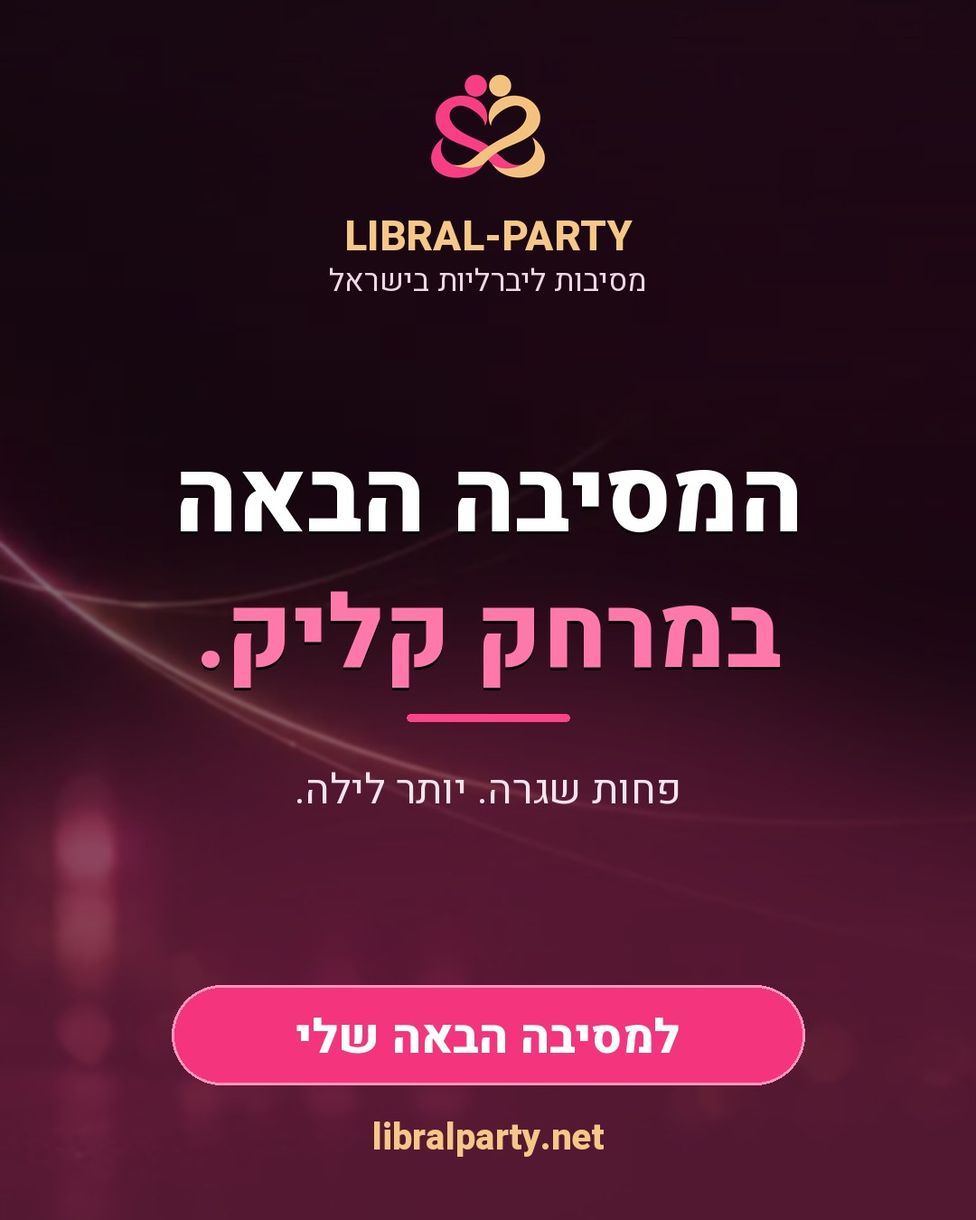
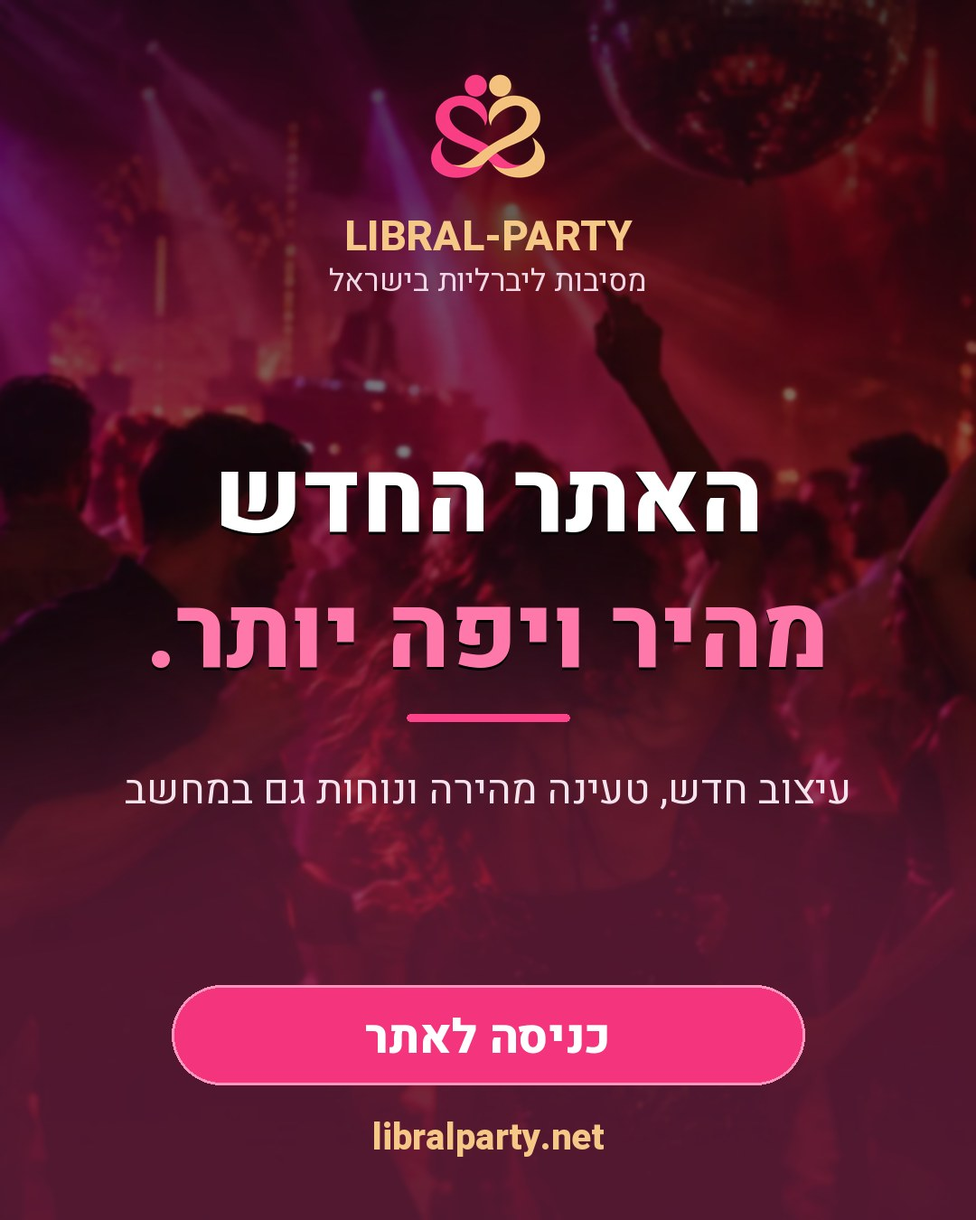
Campaigns: add 'what's new' posts first, proofread Hebrew texts (16 campaigns)
Claude-Session: https://claude.ai/code/session_01MnETpxBKVPfyu1WyzPnxXv

diff --git a/shared/telegramCampaigns.js b/shared/telegramCampaigns.js
@@ -3,61 +3,81 @@ export const TELEGRAM_CAMPAIGNS = [
   {
     "id": "c01",
     "image": "https://www.libralparty.net/assets/campaigns/c01.jpg",
-    "caption": "💃 סינגליות, האיזון שלכן מחכה!\nנרשמות למסיבה דרך האתר, ואנחנו דואגים לאיזון מגדרי. ללא עלות, ובלי להתאמץ.\n\n👇 בוחרות מסיבה ונרשמות:\nhttps://www.libralparty.net/events?utm_source=telegram&utm_medium=channel&utm_campaign=c01"
+    "caption": "📲 חדש באתר: התראות ישירות לנייד!\nמאשרים התראות פעם אחת, ומקבלים עדכון ברגע שנמצא לכם איזון ובכל פעם שעולה מסיבה חדשה.\n\n👇 נכנסים לאתר ומאשרים התראות:\nhttps://www.libralparty.net/?utm_source=telegram&utm_medium=channel&utm_campaign=c01"
   },
   {
     "id": "c02",
     "image": "https://www.libralparty.net/assets/campaigns/c02.jpg",
-    "caption": "⏰ סוף השבוע מתקרב וחבל לפספס איזון!\nאפשר להירשם לאיזון מגדרי עד 21:00 ביום המסיבה.\n\n👇 כל המסיבות באתר:\nhttps://www.libralparty.net/events?utm_source=telegram&utm_medium=channel&utm_campaign=c02"
+    "caption": "⚡ חדש באתר: הרשמה מהירה!\nמנויים שמחוברים לא צריכים להקליד שוב שם וטלפון — בוחרים מסיבה, ונרשמים.\n\n👇 לוחצים ונרשמים:\nhttps://www.libralparty.net/events?utm_source=telegram&utm_medium=channel&utm_campaign=c02"
   },
   {
     "id": "c03",
     "image": "https://www.libralparty.net/assets/campaigns/c03.jpg",
-    "caption": "🔥 מסיבות חדשות עלו עכשיו לאתר!\nכל התאריכים, המקומות וההרשמה — הכל במקום אחד.\n\n👇 מה מתאים לכם הלילה?\nhttps://www.libralparty.net/events?utm_source=telegram&utm_medium=channel&utm_campaign=c03"
+    "caption": "👤 חדש באתר: אזור אישי מלא!\nאפשר לערוך שם, להחליף סיסמה ותמונה, לראות את ההרשמות שלכם ולדעת מתי יש לכם איזון.\n\n👇 נכנסים לאזור האישי:\nhttps://www.libralparty.net/my-area?utm_source=telegram&utm_medium=channel&utm_campaign=c03"
   },
   {
     "id": "c04",
     "image": "https://www.libralparty.net/assets/campaigns/c04.jpg",
-    "caption": "💑 זוגות — הרשמה למסיבה לוקחת דקה!\nבוחרים מסיבה, ממלאים פרטים ומגיעים ליהנות.\n\n👇 מסיבות פתוחות להרשמה:\nhttps://www.libralparty.net/events?utm_source=telegram&utm_medium=channel&utm_campaign=c04"
+    "caption": "💗 חדש באתר: מועדפים!\nלוחצים על הלב ליד מסיבה, והיא נשמרת באזור האישי. מסיבות נוספות של אותו מפיק מופיעות שם גם הן.\n\n👇 בוחרים מסיבות:\nhttps://www.libralparty.net/events?utm_source=telegram&utm_medium=channel&utm_campaign=c04"
   },
   {
     "id": "c05",
     "image": "https://www.libralparty.net/assets/campaigns/c05.jpg",
-    "caption": "✨ פחות שגרה, יותר לילה!\nהמסיבה הבאה שלכם כבר מחכה באתר.\n\n👇 לוחצים ונרשמים:\nhttps://www.libralparty.net/events?utm_source=telegram&utm_medium=channel&utm_campaign=c05"
+    "caption": "✨ האתר התחדש!\nעיצוב חדש, טעינה מהירה בהרבה ותצוגה נוחה גם במחשב.\n\n👇 בואו להתרשם:\nhttps://www.libralparty.net/?utm_source=telegram&utm_medium=channel&utm_campaign=c05"
   },
   {
     "id": "c06",
     "image": "https://www.libralparty.net/assets/campaigns/c06.jpg",
-    "caption": "🤝 סינגלים — גם לכם יש איזון מגדרי!\nמצטרפים כמנויים ומקבלים התאמה למסיבה.\n\n👇 כל הפרטים והמחירים:\nhttps://www.libralparty.net/membership?utm_source=telegram&utm_medium=channel&utm_campaign=c06"
+    "caption": "💃 סינגליות, האיזון שלכן מחכה!\nנרשמות למסיבה דרך האתר, ואנחנו דואגים לאיזון מגדרי. ללא עלות ובלי להתאמץ.\n\n👇 בוחרות מסיבה ונרשמות:\nhttps://www.libralparty.net/events?utm_source=telegram&utm_medium=channel&utm_campaign=c06"
   },
   {
     "id": "c07",
     "image": "https://www.libralparty.net/assets/campaigns/c07.jpg",
-    "caption": "🩶 קהילה מכבדת, חיבורים מעניינים.\nמרחב של חופש ושל כבוד הדדי — להכיר, לרקוד ולצאת מהרגיל.\n\n👇 קצת עלינו:\nhttps://www.libralparty.net/about?utm_source=telegram&utm_medium=channel&utm_campaign=c07"
+    "caption": "⏰ סוף השבוע מתקרב, וחבל לפספס איזון!\nאפשר להירשם לאיזון מגדרי עד 21:00 ביום המסיבה.\n\n👇 כל המסיבות באתר:\nhttps://www.libralparty.net/events?utm_source=telegram&utm_medium=channel&utm_campaign=c07"
   },
   {
     "id": "c08",
     "image": "https://www.libralparty.net/assets/campaigns/c08.jpg",
-    "caption": "📅 כל המסיבות בלוח אחד!\nמפנים מקום ביומן ובוחרים את הלילה הבא.\n\n👇 ללוח האירועים:\nhttps://www.libralparty.net/calendar?utm_source=telegram&utm_medium=channel&utm_campaign=c08"
+    "caption": "🔥 מסיבות חדשות עלו עכשיו לאתר!\nכל התאריכים, המקומות וההרשמה, הכל במקום אחד.\n\n👇 מה מתאים לכם הלילה?\nhttps://www.libralparty.net/events?utm_source=telegram&utm_medium=channel&utm_campaign=c08"
   },
   {
     "id": "c09",
     "image": "https://www.libralparty.net/assets/campaigns/c09.jpg",
-    "caption": "📣 מפיקים — מעוניינים לפרסם את המסיבה שלכם?\nנרשמים כמפרסמים, מעלים את המסיבה, והיא מופיעה באתר ובערוצים שלנו.\n\n👇 להרשמה כמפרסם:\nhttps://www.libralparty.net/advertiser-register?utm_source=telegram&utm_medium=channel&utm_campaign=c09"
+    "caption": "💑 זוגות, ההרשמה למסיבה לוקחת דקה!\nבוחרים מסיבה, ממלאים פרטים ומגיעים ליהנות.\n\n👇 מסיבות פתוחות להרשמה:\nhttps://www.libralparty.net/events?utm_source=telegram&utm_medium=channel&utm_campaign=c09"
   },
   {
     "id": "c10",
     "image": "https://www.libralparty.net/assets/campaigns/c10.jpg",
-    "caption": "👤 האזור האישי שלכם באתר:\nההרשמות, האיזון והפרטים שלכם — הכל במקום אחד.\n\n👇 נכנסים:\nhttps://www.libralparty.net/my-area?utm_source=telegram&utm_medium=channel&utm_campaign=c10"
+    "caption": "✨ פחות שגרה, יותר לילה!\nהמסיבה הבאה שלכם כבר מחכה באתר.\n\n👇 לוחצים ונרשמים:\nhttps://www.libralparty.net/events?utm_source=telegram&utm_medium=channel&utm_campaign=c10"
   },
   {
     "id": "c11",
     "image": "https://www.libralparty.net/assets/campaigns/c11.jpg",
-    "caption": "🎁 לנשים — מנוי למסיבות חינם, לכל החיים!\nנרשמות פעם אחת ונהנות מהכל.\n\n👇 להרשמה:\nhttps://www.libralparty.net/register?utm_source=telegram&utm_medium=channel&utm_campaign=c11"
+    "caption": "🤝 סינגלים, גם לכם יש איזון מגדרי!\nמצטרפים כמנויים ומקבלים התאמה למסיבה.\n\n👇 כל הפרטים והמחירים:\nhttps://www.libralparty.net/membership?utm_source=telegram&utm_medium=channel&utm_campaign=c11"
   },
   {
     "id": "c12",
     "image": "https://www.libralparty.net/assets/campaigns/c12.jpg",
-    "caption": "🌙 הלילה הבא מתחיל כאן!\nמסיבות, איזונים וקהילה — הכל באתר LIBRAL PARTY.\n\n👇 כניסה לאתר:\nhttps://www.libralparty.net/?utm_source=telegram&utm_medium=channel&utm_campaign=c12"
+    "caption": "🩶 קהילה מכבדת, חיבורים מעניינים.\nמרחב של חופש ושל כבוד הדדי, להכיר, לרקוד ולצאת מהרגיל.\n\n👇 קצת עלינו:\nhttps://www.libralparty.net/about?utm_source=telegram&utm_medium=channel&utm_campaign=c12"
+  },
+  {
+    "id": "c13",
+    "image": "https://www.libralparty.net/assets/campaigns/c13.jpg",
+    "caption": "📅 כל המסיבות בלוח אחד!\nמפנים מקום ביומן ובוחרים את הלילה הבא.\n\n👇 ללוח האירועים:\nhttps://www.libralparty.net/calendar?utm_source=telegram&utm_medium=channel&utm_campaign=c13"
+  },
+  {
+    "id": "c14",
+    "image": "https://www.libralparty.net/assets/campaigns/c14.jpg",
+    "caption": "📣 מפיקים, מעוניינים לפרסם את המסיבה שלכם?\nנרשמים כמפרסמים, מעלים את המסיבה, והיא מופיעה באתר ובערוצים שלנו.\n\n👇 להרשמה כמפרסם:\nhttps://www.libralparty.net/advertiser-register?utm_source=telegram&utm_medium=channel&utm_campaign=c14"
+  },
+  {
+    "id": "c15",
+    "image": "https://www.libralparty.net/assets/campaigns/c15.jpg",
+    "caption": "🎁 לנשים, מנוי למסיבות חינם לכל החיים!\nנרשמות פעם אחת ונהנות מהכל.\n\n👇 להרשמה:\nhttps://www.libralparty.net/register?utm_source=telegram&utm_medium=channel&utm_campaign=c15"
+  },
+  {
+    "id": "c16",
+    "image": "https://www.libralparty.net/assets/campaigns/c16.jpg",
+    "caption": "🌙 הלילה הבא מתחיל כאן!\nמסיבות, איזונים וקהילה, הכל באתר LIBRAL PARTY.\n\n👇 כניסה לאתר:\nhttps://www.libralparty.net/?utm_source=telegram&utm_medium=channel&utm_campaign=c16"
   }
 ];

diff --git a/scripts/campaigns/make_campaigns.py b/scripts/campaigns/make_campaigns.py
@@ -21,30 +21,40 @@ BG = {
 
 # id, background, headline lines (last line is highlighted), subline, button text, page, caption
 CAMPAIGNS = [
-    ("c01", "dance", ["סינגלית?", "האיזון שלך מחכה."], "נרשמות למסיבה הבאה ומקבלות איזון מגדרי", "להרשמה באתר", "/events",
-     "💃 סינגליות, האיזון שלכן מחכה!\nנרשמות למסיבה דרך האתר, ואנחנו דואגים לאיזון מגדרי. ללא עלות, ובלי להתאמץ.\n\n👇 בוחרות מסיבה ונרשמות:"),
-    ("c02", "lounge", ["חבל לפספס", "איזון בסופ״ש."], "מסיבות הסופ״ש כבר באתר — ההרשמה לאיזון פתוחה", "למסיבות הסופ״ש", "/events",
-     "⏰ סוף השבוע מתקרב וחבל לפספס איזון!\nאפשר להירשם לאיזון מגדרי עד 21:00 ביום המסיבה.\n\n👇 כל המסיבות באתר:"),
-    ("c03", "pool", ["מסיבות חדשות", "עלו לאתר."], "תאריכים, מקומות ופרטי הרשמה — הכל במקום אחד", "לכל המסיבות", "/events",
-     "🔥 מסיבות חדשות עלו עכשיו לאתר!\nכל התאריכים, המקומות וההרשמה — הכל במקום אחד.\n\n👇 מה מתאים לכם הלילה?"),
-    ("c04", "dance", ["זוגות?", "נרשמים בדקה."], "בוחרים מסיבה, ממלאים פרטים, וזהו", "להרשמה למסיבה", "/events",
-     "💑 זוגות — הרשמה למסיבה לוקחת דקה!\nבוחרים מסיבה, ממלאים פרטים ומגיעים ליהנות.\n\n👇 מסיבות פתוחות להרשמה:"),
-    ("c05", "social", ["המסיבה הבאה", "במרחק קליק."], "פחות שגרה. יותר לילה.", "למסיבה הבאה שלי", "/events",
+    # What's new on the site (first in the rotation, so the news goes out first)
+    ("c01", "dance", ["חדש באתר:", "התראה ישירות לנייד."], "איזון ומסיבות חדשות — מקבלים עדכון לנייד", "לאתר ולהפעלת התראות", "/",
+     "📲 חדש באתר: התראות ישירות לנייד!\nמאשרים התראות פעם אחת, ומקבלים עדכון ברגע שנמצא לכם איזון ובכל פעם שעולה מסיבה חדשה.\n\n👇 נכנסים לאתר ומאשרים התראות:"),
+    ("c02", "lounge", ["חדש באתר:", "הרשמה בלי למלא פרטים."], "מנויות ומנויים שמחוברים נרשמים למסיבה בלחיצה", "להרשמה מהירה", "/events",
+     "⚡ חדש באתר: הרשמה מהירה!\nמנויים שמחוברים לא צריכים להקליד שוב שם וטלפון — בוחרים מסיבה, ונרשמים.\n\n👇 לוחצים ונרשמים:"),
+    ("c03", "pool", ["חדש באתר:", "אזור אישי מלא."], "עורכים פרטים, מחליפים סיסמה ותמונה, ורואים את האיזון", "לאזור האישי", "/my-area",
+     "👤 חדש באתר: אזור אישי מלא!\nאפשר לערוך שם, להחליף סיסמה ותמונה, לראות את ההרשמות שלכם ולדעת מתי יש לכם איזון.\n\n👇 נכנסים לאזור האישי:"),
+    ("c04", "social", ["חדש באתר:", "מועדפים באזור האישי."], "לוחצים על הלב ושומרים את המסיבות שאהבתם", "לכל המסיבות", "/events",
+     "💗 חדש באתר: מועדפים!\nלוחצים על הלב ליד מסיבה, והיא נשמרת באזור האישי. מסיבות נוספות של אותו מפיק מופיעות שם גם הן.\n\n👇 בוחרים מסיבות:"),
+    ("c05", "dance", ["האתר החדש", "מהיר ויפה יותר."], "עיצוב חדש, טעינה מהירה ונוחות גם במחשב", "כניסה לאתר", "/",
+     "✨ האתר התחדש!\nעיצוב חדש, טעינה מהירה בהרבה ותצוגה נוחה גם במחשב.\n\n👇 בואו להתרשם:"),
+    # Evergreen campaigns
+    ("c06", "dance", ["סינגלית?", "האיזון שלך מחכה."], "נרשמות למסיבה הבאה ומקבלות איזון מגדרי", "להרשמה באתר", "/events",
+     "💃 סינגליות, האיזון שלכן מחכה!\nנרשמות למסיבה דרך האתר, ואנחנו דואגים לאיזון מגדרי. ללא עלות ובלי להתאמץ.\n\n👇 בוחרות מסיבה ונרשמות:"),
+    ("c07", "lounge", ["חבל לפספס", "איזון בסוף השבוע."], "מסיבות סוף השבוע כבר באתר, וההרשמה לאיזון פתוחה", "למסיבות סוף השבוע", "/events",
+     "⏰ סוף השבוע מתקרב, וחבל לפספס איזון!\nאפשר להירשם לאיזון מגדרי עד 21:00 ביום המסיבה.\n\n👇 כל המסיבות באתר:"),
+    ("c08", "pool", ["מסיבות חדשות", "עלו לאתר."], "תאריכים, מקומות ופרטי הרשמה, הכל במקום אחד", "לכל המסיבות", "/events",
+     "🔥 מסיבות חדשות עלו עכשיו לאתר!\nכל התאריכים, המקומות וההרשמה, הכל במקום אחד.\n\n👇 מה מתאים לכם הלילה?"),
+    ("c09", "dance", ["זוגות?", "נרשמים בדקה."], "בוחרים מסיבה, ממלאים פרטים, וזהו", "להרשמה למסיבה", "/events",
+     "💑 זוגות, ההרשמה למסיבה לוקחת דקה!\nבוחרים מסיבה, ממלאים פרטים ומגיעים ליהנות.\n\n👇 מסיבות פתוחות להרשמה:"),
+    ("c10", "social", ["המסיבה הבאה", "במרחק קליק."], "פחות שגרה. יותר לילה.", "למסיבה הבאה שלי", "/events",
      "✨ פחות שגרה, יותר לילה!\nהמסיבה הבאה שלכם כבר מחכה באתר.\n\n👇 לוחצים ונרשמים:"),
-    ("c06", "lounge", ["סינגלים?", "גם לכם יש איזון."], "מצטרפים כמנויים ומקבלים התאמה למסיבה", "איך מצטרפים", "/membership",
-     "🤝 סינגלים — גם לכם יש איזון מגדרי!\nמצטרפים כמנויים ומקבלים התאמה למסיבה.\n\n👇 כל הפרטים והמחירים:"),
-    ("c07", "pool", ["קהילה מכבדת.", "חיבורים מעניינים."], "מרחב של חופש, עם כבוד הדדי. 18+", "להכיר את הקהילה", "/about",
-     "🩶 קהילה מכבדת, חיבורים מעניינים.\nמרחב של חופש ושל כבוד הדדי — להכיר, לרקוד ולצאת מהרגיל.\n\n👇 קצת עלינו:"),
-    ("c08", "dance", ["כל האירועים", "בלוח אחד."], "מפנים מקום ביומן ובוחרים מסיבה", "ללוח האירועים", "/calendar",
+    ("c11", "lounge", ["סינגלים?", "גם לכם יש איזון."], "מצטרפים כמנויים ומקבלים התאמה למסיבה", "איך מצטרפים", "/membership",
+     "🤝 סינגלים, גם לכם יש איזון מגדרי!\nמצטרפים כמנויים ומקבלים התאמה למסיבה.\n\n👇 כל הפרטים והמחירים:"),
+    ("c12", "pool", ["קהילה מכבדת.", "חיבורים מעניינים."], "מרחב של חופש ושל כבוד הדדי. 18+", "להכיר את הקהילה", "/about",
+     "🩶 קהילה מכבדת, חיבורים מעניינים.\nמרחב של חופש ושל כבוד הדדי, להכיר, לרקוד ולצאת מהרגיל.\n\n👇 קצת עלינו:"),
+    ("c13", "dance", ["כל האירועים", "בלוח אחד."], "מפנים מקום ביומן ובוחרים מסיבה", "ללוח האירועים", "/calendar",
      "📅 כל המסיבות בלוח אחד!\nמפנים מקום ביומן ובוחרים את הלילה הבא.\n\n👇 ללוח האירועים:"),
-    ("c09", "social", ["מפיקים?", "פרסמו אצלנו."], "הרשמה כמפרסם והמסיבה שלכם באתר ובערוצים", "להרשמה כמפרסם", "/advertiser-register",
-     "📣 מפיקים — מעוניינים לפרסם את המסיבה שלכם?\nנרשמים כמפרסמים, מעלים את המסיבה, והיא מופיעה באתר ובערוצים שלנו.\n\n👇 להרשמה כמפרסם:"),
-    ("c10", "lounge", ["האזור האישי", "הכל במקום אחד."], "ההרשמות והאיזונים שלכם — תמיד זמינים", "לאזור האישי", "/my-area",
-     "👤 האזור האישי שלכם באתר:\nההרשמות, האיזון והפרטים שלכם — הכל במקום אחד.\n\n👇 נכנסים:"),
-    ("c11", "pool", ["לנשים:", "מנוי חינם לכל החיים."], "מנוי למסיבות לכל הנשים, ללא עלות", "לפרטים והרשמה", "/register",
-     "🎁 לנשים — מנוי למסיבות חינם, לכל החיים!\nנרשמות פעם אחת ונהנות מהכל.\n\n👇 להרשמה:"),
-    ("c12", "dance", ["הלילה הבא", "מתחיל כאן."], "מסיבות, איזונים וקהילה — הכל במקום אחד", "כניסה לאתר", "/",
-     "🌙 הלילה הבא מתחיל כאן!\nמסיבות, איזונים וקהילה — הכל באתר LIBRAL PARTY.\n\n👇 כניסה לאתר:"),
+    ("c14", "social", ["מפיקים?", "פרסמו אצלנו."], "הרשמה כמפרסם והמסיבה שלכם באתר ובערוצים", "להרשמה כמפרסם", "/advertiser-register",
+     "📣 מפיקים, מעוניינים לפרסם את המסיבה שלכם?\nנרשמים כמפרסמים, מעלים את המסיבה, והיא מופיעה באתר ובערוצים שלנו.\n\n👇 להרשמה כמפרסם:"),
+    ("c15", "pool", ["לנשים:", "מנוי חינם לכל החיים."], "מנוי למסיבות לכל הנשים, ללא עלות", "לפרטים והרשמה", "/register",
+     "🎁 לנשים, מנוי למסיבות חינם לכל החיים!\nנרשמות פעם אחת ונהנות מהכל.\n\n👇 להרשמה:"),
+    ("c16", "dance", ["הלילה הבא", "מתחיל כאן."], "מסיבות, איזונים וקהילה, הכל במקום אחד", "כניסה לאתר", "/",
+     "🌙 הלילה הבא מתחיל כאן!\nמסיבות, איזונים וקהילה, הכל באתר LIBRAL PARTY.\n\n👇 כניסה לאתר:"),
 ]
 
 def merged_font(weight):
